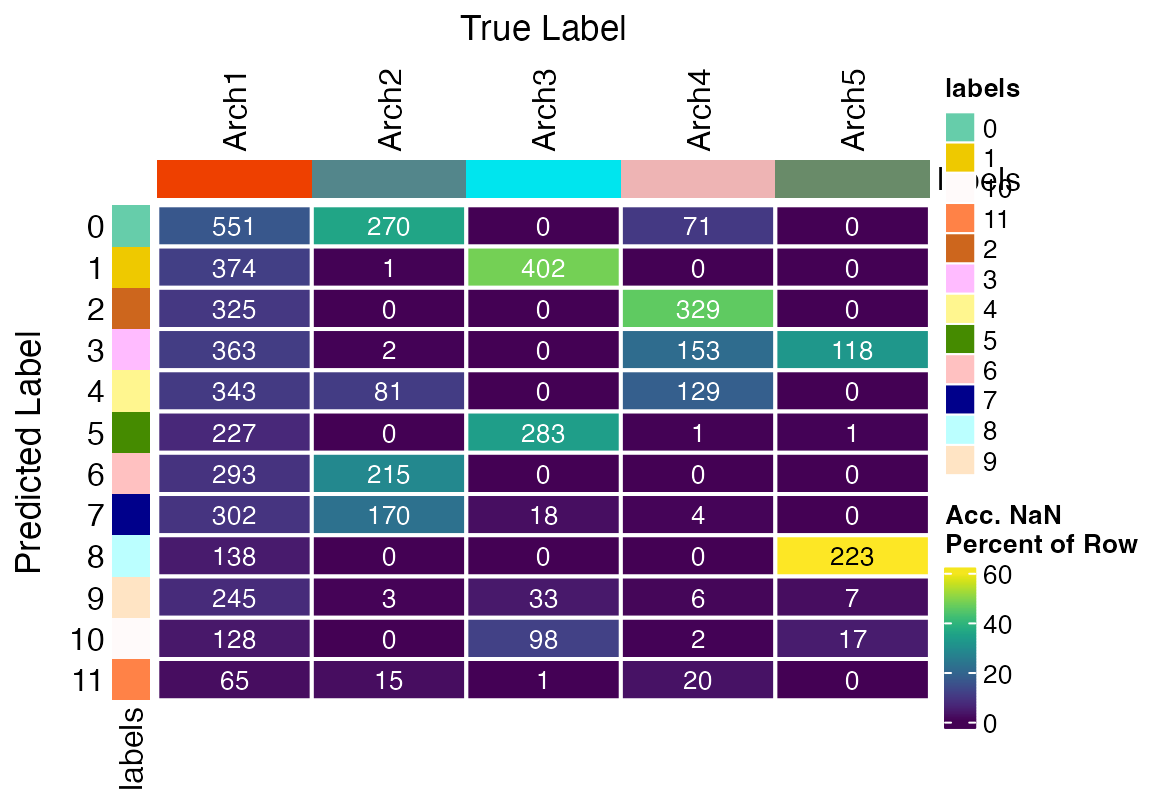
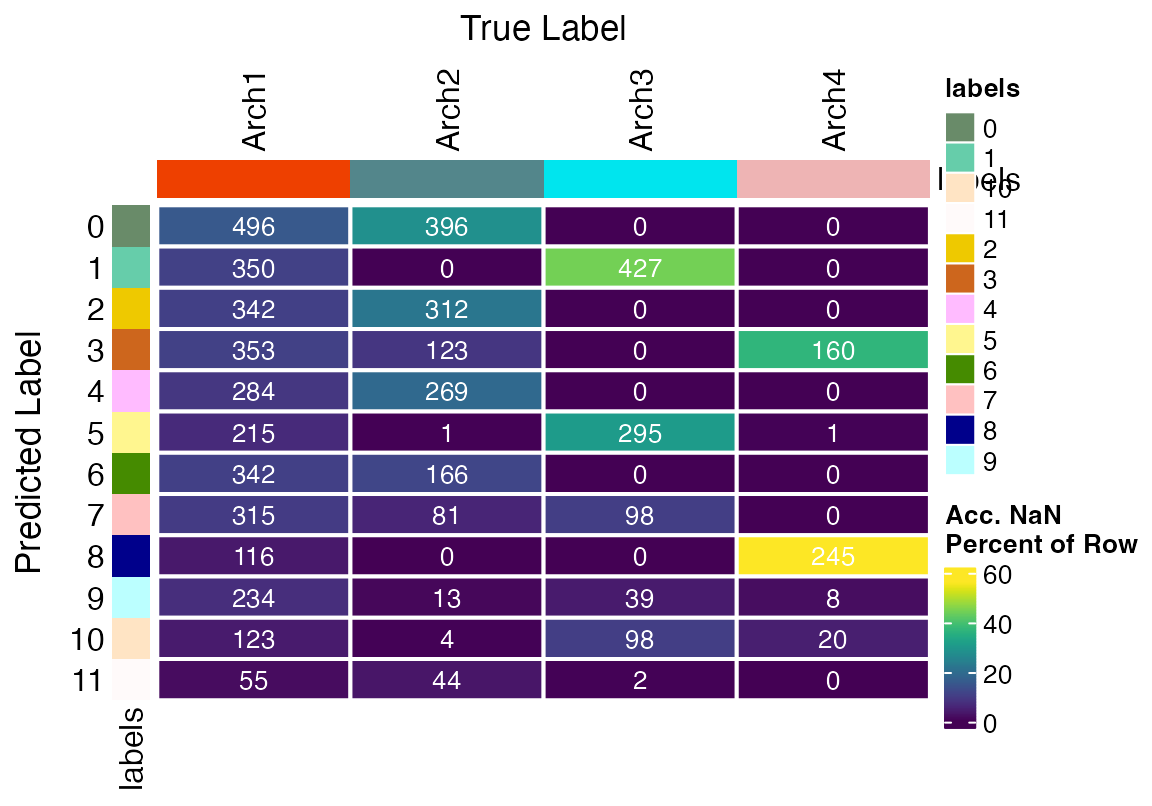
Built site for rustytools@0.0.2:

diff --git a/articles/pcha.html b/articles/pcha.html
@@ -344,7 +344,7 @@ from above</p>
 <div class="sourceCode" id="cb7"><pre class="downlit sourceCode r">
 <code class="sourceCode R"><span><span class="kw"><a href="https://rdrr.io/r/base/library.html" class="external-link">library</a></span><span class="op">(</span><span class="va"><a href="https://satijalab.org/seurat" class="external-link">Seurat</a></span><span class="op">)</span></span>
 <span><span class="kw"><a href="https://rdrr.io/r/base/library.html" class="external-link">library</a></span><span class="op">(</span><span class="va"><a href="https://magrittr.tidyverse.org" class="external-link">magrittr</a></span><span class="op">)</span></span>
-<span><span class="va">seu</span> <span class="op">&lt;-</span> <span class="fu"><a href="https://rdrr.io/r/base/readRDS.html" class="external-link">readRDS</a></span><span class="op">(</span><span class="st">"~/Fred Hutch Cancer Center/Furlan_Lab - General/experiments/patient_marrows/DB1/cds/221022_DB1_seu_5p_with_cell_labels_SNF.RDS"</span><span class="op">)</span></span>
+<span><span class="va">seu</span> <span class="op">&lt;-</span> <span class="fu"><a href="https://rdrr.io/r/base/readRDS.html" class="external-link">readRDS</a></span><span class="op">(</span><span class="st">"~/Fred Hutch Cancer Center/Furlan_Lab - General/experiments/patient_marrows/annon/AML101/aml101.cds"</span><span class="op">)</span></span>
 <span><span class="fu"><a href="https://satijalab.org/seurat/reference/DimPlot.html" class="external-link">DimPlot</a></span><span class="op">(</span><span class="va">seu</span>, group.by <span class="op">=</span> <span class="st">"seurat_clusters"</span><span class="op">)</span></span></code></pre></div>
 <p><img src="pcha_files/figure-html/unnamed-chunk-4-1.png" width="100%"></p>
 <div class="sourceCode" id="cb8"><pre class="downlit sourceCode r">
@@ -379,7 +379,7 @@ from above</p>
 <p><img src="pcha_files/figure-html/unnamed-chunk-4-5.png" width="100%"></p>
 <div class="sourceCode" id="cb12"><pre class="downlit sourceCode r">
 <code class="sourceCode R"><span><span class="fu"><a href="https://rdrr.io/r/base/cat.html" class="external-link">cat</a></span><span class="op">(</span><span class="st">"Optimal number of archetypes ="</span>, <span class="va">kp</span><span class="op">$</span><span class="va">knee_x</span>, <span class="st">"\n"</span><span class="op">)</span></span></code></pre></div>
-<pre><code><span><span class="co">## Optimal number of archetypes = 5</span></span></code></pre>
+<pre><code><span><span class="co">## Optimal number of archetypes = 4</span></span></code></pre>
 <div class="sourceCode" id="cb14"><pre class="downlit sourceCode r">
 <code class="sourceCode R"><span><span class="va">noc</span> <span class="op">&lt;-</span> <span class="va">kp</span><span class="op">$</span><span class="va">knee_x</span></span>
 <span><span class="va">res</span> <span class="op">&lt;-</span> <span class="fu"><a href="../reference/pcha.html">pcha</a></span><span class="op">(</span><span class="va">X</span>, noc <span class="op">=</span> <span class="va">noc</span><span class="op">)</span> </span>

diff --git a/articles/magic.html b/articles/magic.html
@@ -269,7 +269,7 @@ modest levels of CD33. Lets see how they look after Magic.</p>
 <span><span class="op">}</span><span class="op">)</span></span>
 <span></span>
 <span></span>
-<span><span class="va">seu</span> <span class="op">&lt;-</span> <span class="fu"><a href="https://rdrr.io/r/base/readRDS.html" class="external-link">readRDS</a></span><span class="op">(</span><span class="st">"~/Fred Hutch Cancer Center/Furlan_Lab - General/experiments/patient_marrows/DB1/cds/221022_DB1_seu_5p_with_cell_labels_SNF.RDS"</span><span class="op">)</span></span>
+<span><span class="va">seu</span> <span class="op">&lt;-</span> <span class="fu"><a href="https://rdrr.io/r/base/readRDS.html" class="external-link">readRDS</a></span><span class="op">(</span><span class="st">"~/Fred Hutch Cancer Center/Furlan_Lab - General/experiments/patient_marrows/annon/AML101/aml101.cds"</span><span class="op">)</span></span>
 <span><span class="va">seu</span><span class="op">$</span><span class="va">sb</span> <span class="op">&lt;-</span> <span class="va">seu</span><span class="op">$</span><span class="va">geno</span> <span class="op"><a href="https://rdrr.io/r/base/match.html" class="external-link">%in%</a></span> <span class="st">"0"</span> <span class="op">&amp;</span> <span class="va">seu</span><span class="op">$</span><span class="va">seurat_clusters</span> <span class="op"><a href="https://rdrr.io/r/base/match.html" class="external-link">%in%</a></span> <span class="fu"><a href="https://rdrr.io/r/base/c.html" class="external-link">c</a></span><span class="op">(</span><span class="st">"0"</span>, <span class="st">"1"</span>, <span class="st">"2"</span>, <span class="st">"3"</span>, <span class="st">"4"</span>, <span class="st">"11"</span><span class="op">)</span></span>
 <span><span class="co">#DimPlot(seu, group.by = "sb")</span></span>
 <span></span>
